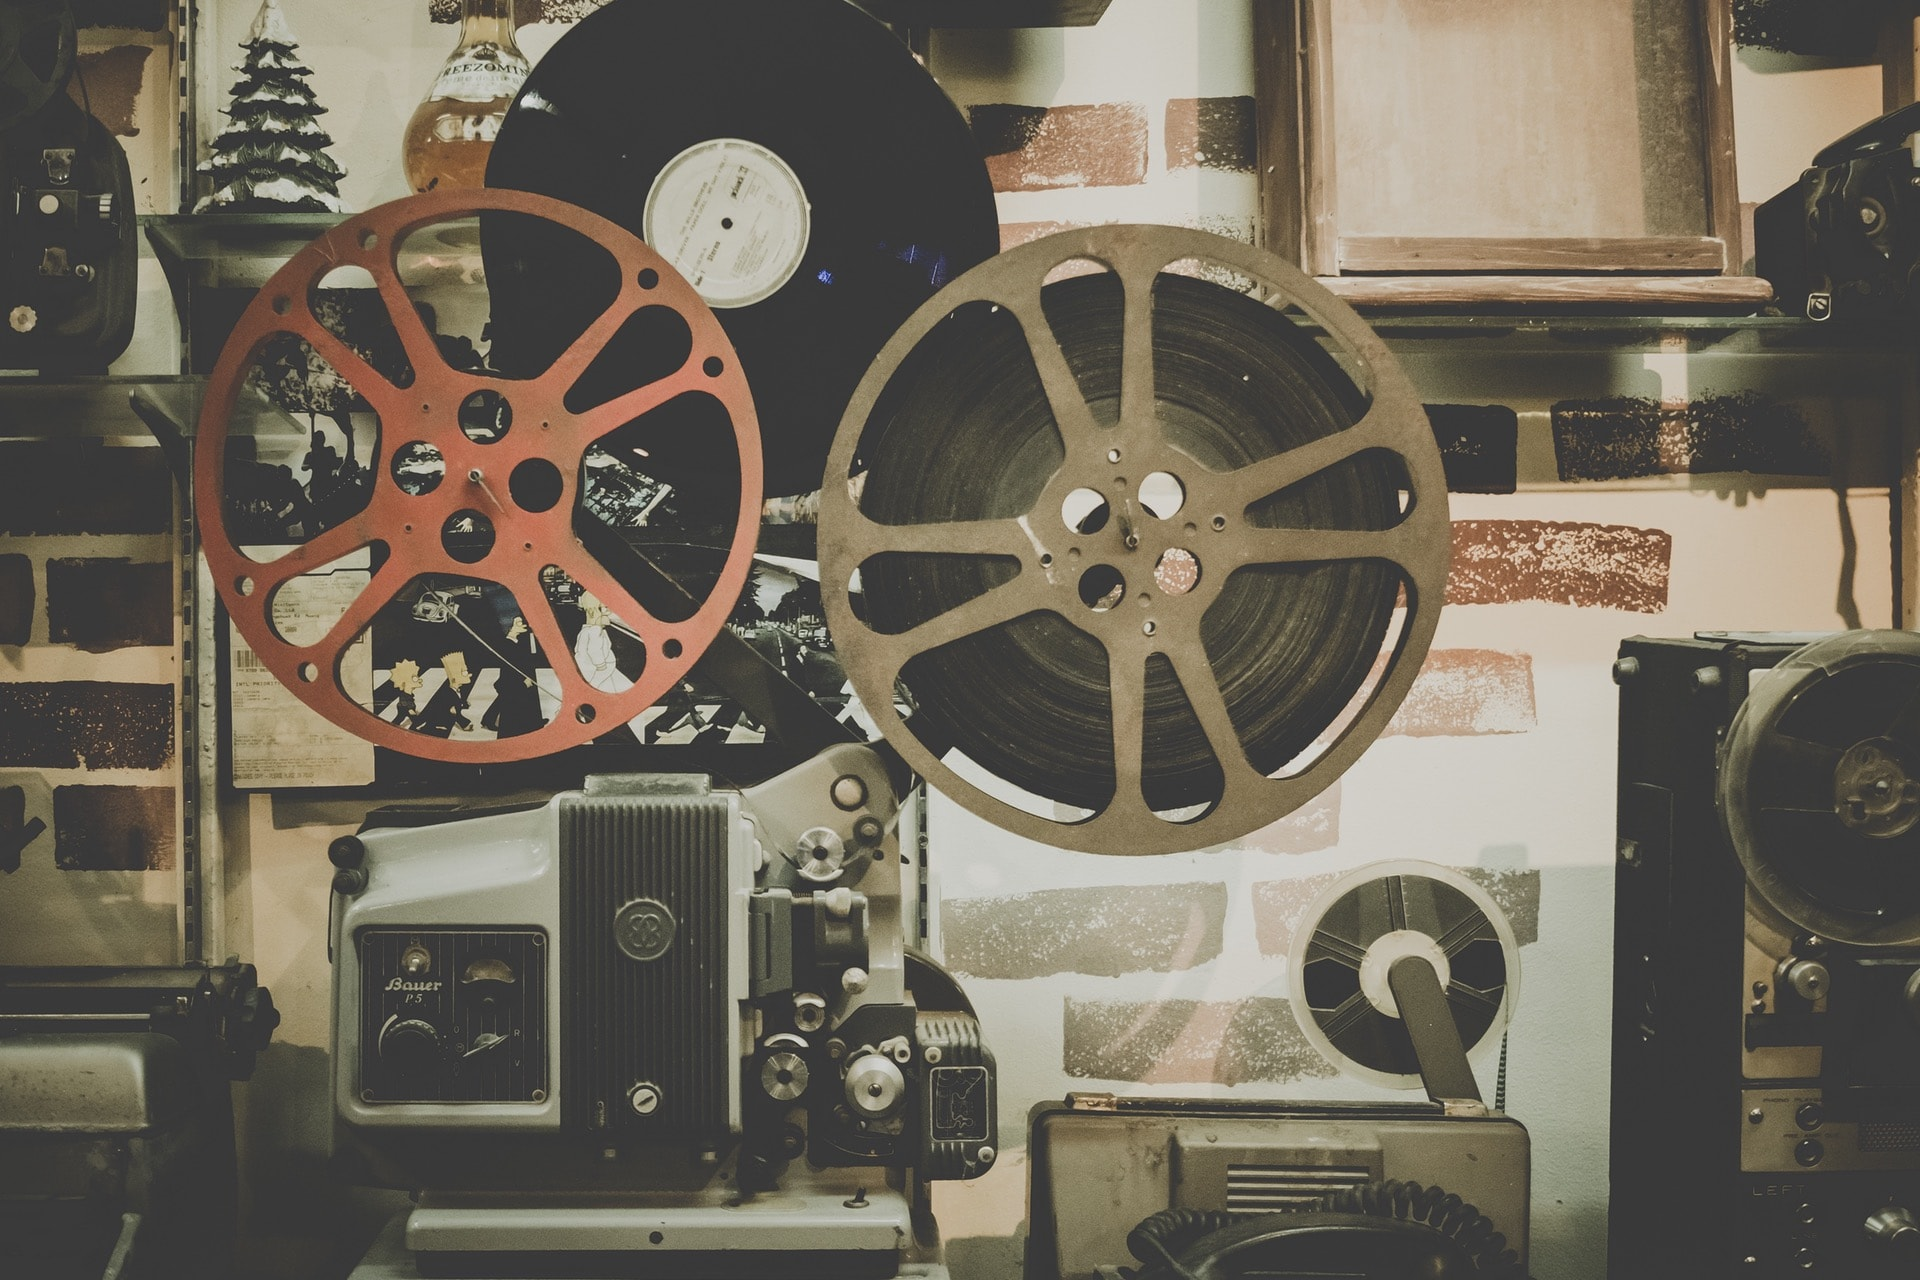
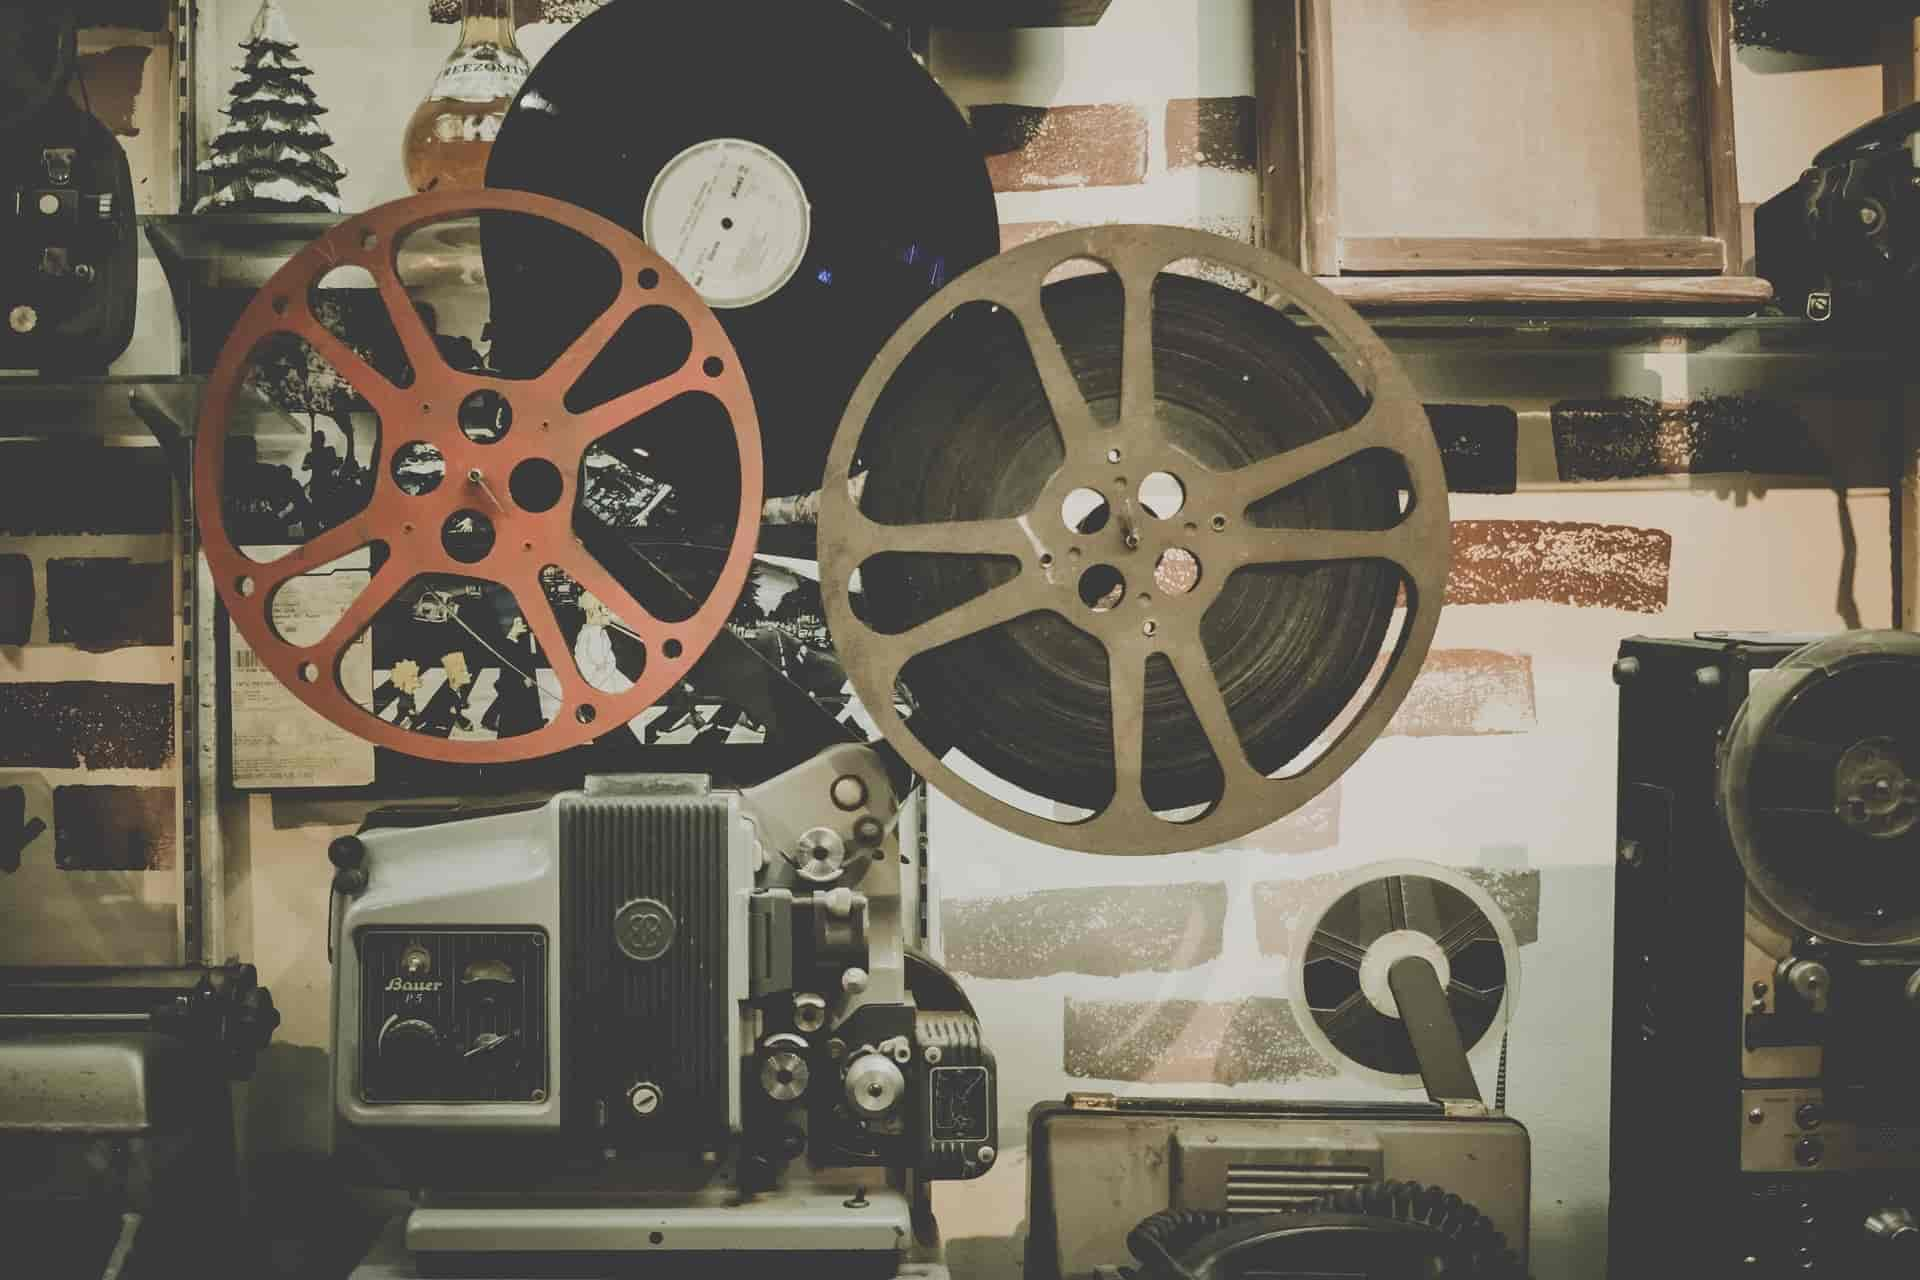
compressed images and updated the gh-pages build

Changed region(s): [[0.3125, 0.375, 0.3438, 0.4062], [0.2812, 0.0, 0.3125, 0.0312]]

diff --git a/public/index.html b/public/index.html
@@ -2,6 +2,7 @@
 <html lang="en">
   <head>
     <title>Cinema/TV Seeker</title>
+    <link rel="shortcut icon" href="../src/img/icon.png" type="image/x-icon" />
     <link href="https://fonts.googleapis.com/css?family=Playfair+Display" rel="stylesheet">
     <link href="https://fonts.googleapis.com/css?family=Fauna+One" rel="stylesheet">
     <meta name="viewport" content="width=device-width, initial-scale=1">

diff --git a/src/main.css b/src/main.css
@@ -193,6 +193,10 @@ footer a:visited{
   text-decoration: none;
   font-weight: bold;
 }
+.tmdb{
+  margin-top: 20px;
+  width: 100px;
+}
 /***********************Responsive Design*****************************/
 
 @media only screen and (min-width: 850px){
@@ -239,5 +243,8 @@ footer a:visited{
   }
   footer{
   	width: 45%;
+  }
+  .tmdb{
+    width: 30%;
   }
 }

diff --git a/src/footer.js b/src/footer.js
@@ -6,6 +6,7 @@ class Footer extends Component {
     	<div>
       	<footer className={this.props.class}>
 			<p>Coded & Designed by <a href="http://ericandrewluna.com" target="_blank">Eric Luna</a></p>
+			<img className="tmdb" src={require('./img/tmdb.png')} alt="tmdb"/>
 		</footer>
 		</div>
     );

diff --git a/src/index.js b/src/index.js
@@ -4,6 +4,7 @@ import Movie from './movie.js';
 import TV from './tv.js';
 import { Router, Route, hashHistory } from 'react-router'
 import { Link } from 'react-router';
+import './img/icon.png'
 
 ReactDOM.render((
   <Router history={hashHistory}>

diff --git a/src/tv.css b/src/tv.css
@@ -5,7 +5,7 @@
     background-repeat: no-repeat;
     display: flex;
     flex-direction: column;
-    height: 1280px;
+    height: 1350px;
 }
 
 /*link for the tv seeker section */
